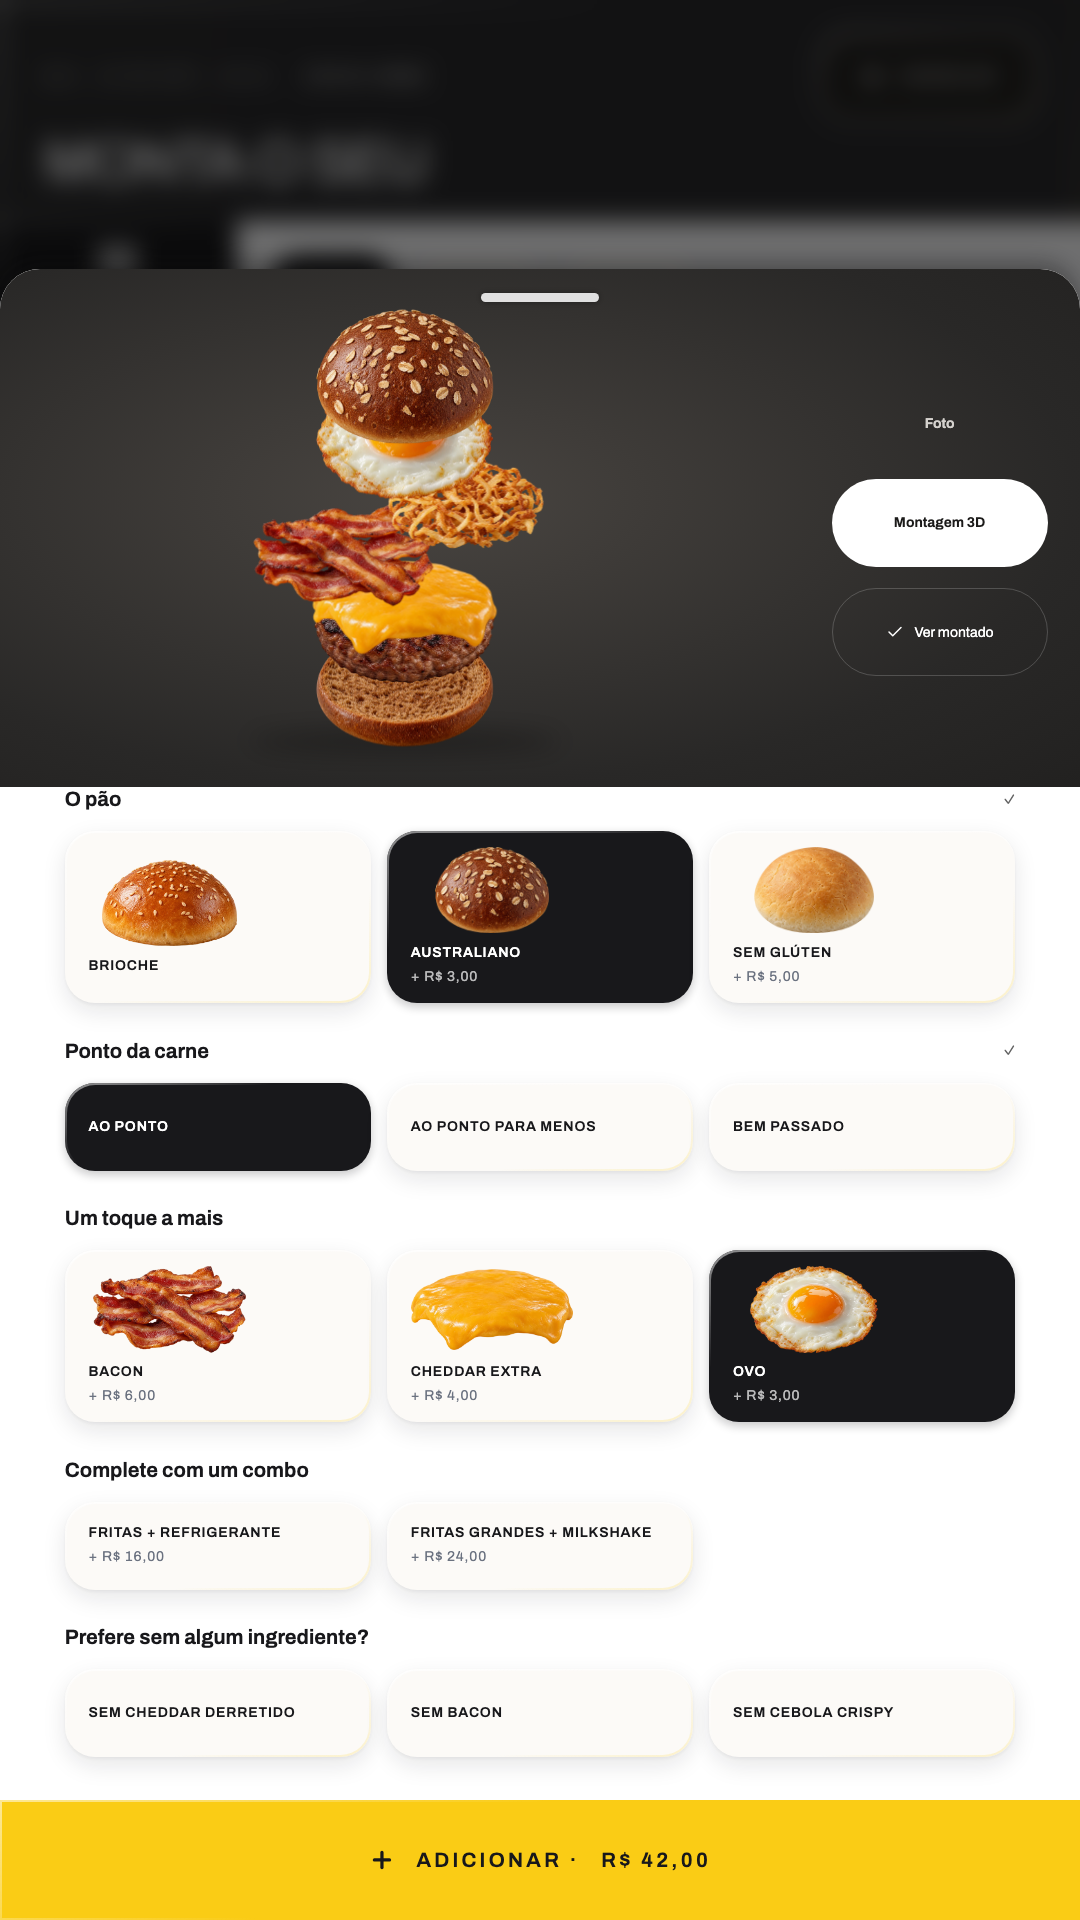
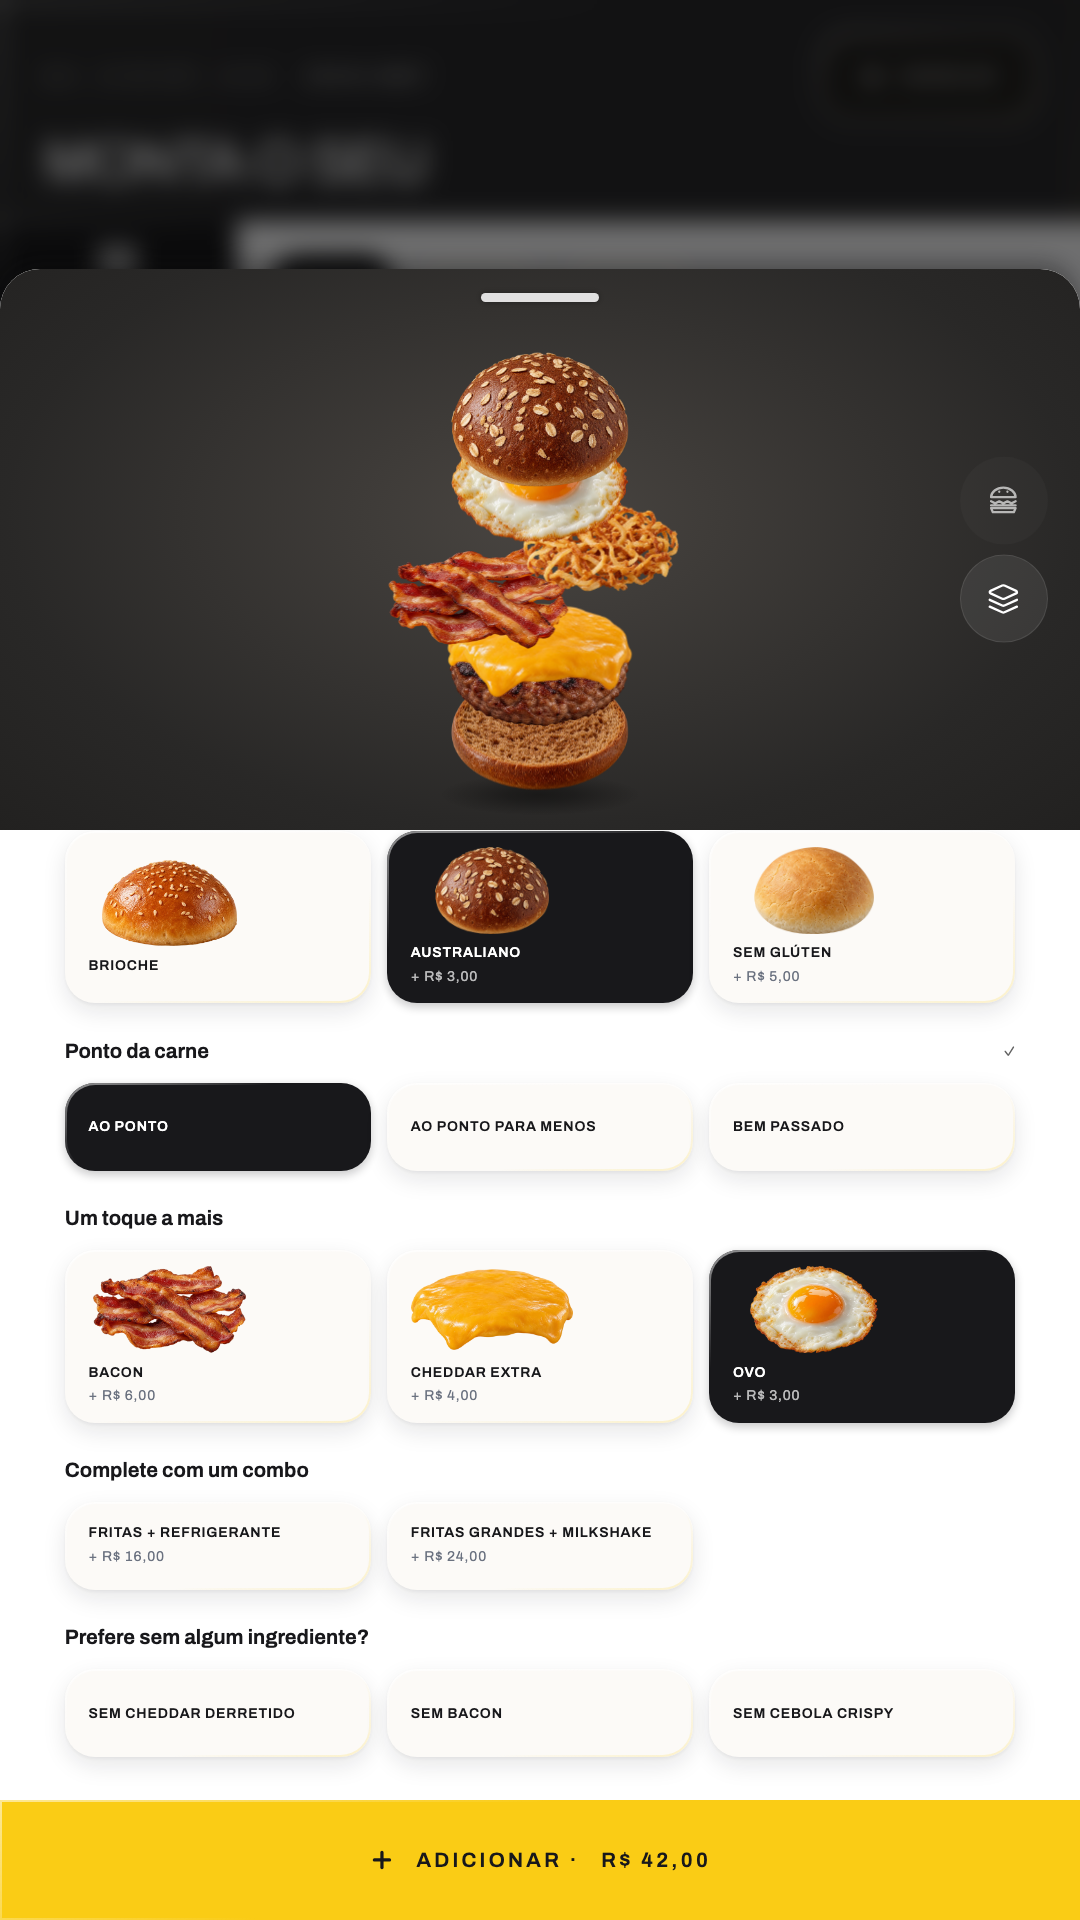
fix(totem): polish burger motion, contact shadows and preview coverage

Changed region(s): [[0.0, 0.1562, 1.0, 0.4375], [0.7639, 0.2188, 0.9778, 0.3438]]

diff --git a/e2e/burger-motion.spec.ts b/e2e/burger-motion.spec.ts
@@ -1,0 +1,72 @@
+import { expect, test, type Page } from '@playwright/test'
+
+async function enter(page: Page) {
+  await page.goto('/?tenant=maxburger')
+  for (const id of ['attract', 'mode-dine-in', 'identify-skip']) await page.getByTestId(id).tap()
+  await expect(page.locator('.burger-photo-stage [data-testid="burger-still"]')).toHaveAttribute('data-ready', 'true')
+}
+
+test('pão e queijo abrem, renovam o tempo e fecham sem mudar o pedido', async ({ page }, info) => {
+  await enter(page)
+  const stage = page.getByTestId('burger-stage'), builder = page.getByTestId('burger-builder')
+  await expect(stage).toHaveAttribute('data-open', 'false')
+  await page.getByTestId('burger-recipe-mb-p-cheddar-bacon').tap()
+  await page.getByTestId('mod-mb-m-australiano').tap()
+  await expect(stage).toHaveAttribute('data-open', 'true')
+  await page.waitForTimeout(1800)
+  await page.getByTestId('mod-mb-m-cheddar').tap()
+  await expect(page.getByTestId('burger-layer-extra-mb-m-cheddar')).toBeVisible()
+  await page.waitForTimeout(1200)
+  await expect(stage).toHaveAttribute('data-open', 'true')
+  const shadow = stage.getByTestId('burger-shadow')
+  await expect(shadow).toBeVisible()
+  await expect(shadow).toHaveCSS('pointer-events', 'none')
+  await page.screenshot({ path: info.outputPath('burger-shadow-open.png') })
+  await expect(stage).toHaveAttribute('data-open', 'false', { timeout: 4000 })
+  await expect(builder).toHaveAttribute('data-view', 'photo')
+  await page.screenshot({ path: info.outputPath('burger-shadow-closed.png') })
+  await page.getByTestId('mod-mb-m-ponto').tap()
+  await expect(builder).toHaveAttribute('data-view', 'photo')
+  await expect(page.getByTestId('sheet-total')).toContainText('43,00')
+  await expect(page.getByTestId('open-cart')).toBeDisabled()
+  // A held gesture must never close beneath the customer's finger.
+  await page.getByTestId('burger-layers-toggle').tap()
+  await page.waitForTimeout(700)
+  const hit = (await page.getByTestId('burger-hit-extra-mb-m-cheddar').boundingBox())!
+  await page.mouse.move(hit.x + hit.width / 2, hit.y + hit.height / 2)
+  await page.mouse.down()
+  await page.waitForTimeout(2900)
+  await expect(stage).toHaveAttribute('data-open', 'true')
+  await page.mouse.up()
+  await expect(stage).toHaveAttribute('data-open', 'false', { timeout: 4000 })
+})
+
+test('adicionar fecha, voa para o carrinho e registra uma única linha', async ({ page }) => {
+  await enter(page)
+  for (const id of ['burger-recipe-mb-p-cheddar-bacon', 'mod-mb-m-australiano', 'mod-mb-m-ponto', 'burger-layers-toggle']) {
+    await page.getByTestId(id).tap()
+  }
+  await page.waitForTimeout(700)
+  await page.getByTestId('add-to-order').tap()
+  const arrival = page.getByTestId('burger-cart-arrival')
+  await expect(arrival).toBeVisible()
+  await expect(arrival).toHaveAttribute('data-closing', 'true')
+  await expect(page.getByTestId('product-sheet')).toHaveCount(0)
+  await expect(arrival).toHaveCount(0, { timeout: 3000 })
+  await page.getByTestId('open-cart').tap()
+  await expect(page.getByTestId('cart-line-mb-p-cheddar-bacon')).toHaveCount(1)
+  await expect(page.getByTestId('cart-total')).toContainText('39,00')
+})
+
+test('movimento reduzido não deixa animação atrasada após a compra', async ({ page }) => {
+  await page.emulateMedia({ reducedMotion: 'reduce' })
+  await enter(page)
+  for (const id of ['burger-recipe-mb-p-cheddar-bacon', 'mod-mb-m-brioche', 'mod-mb-m-ponto', 'add-to-order']) {
+    await page.getByTestId(id).tap()
+  }
+  await expect(page.getByTestId('burger-cart-arrival')).toHaveCount(0)
+  await page.emulateMedia({ reducedMotion: 'no-preference' })
+  await expect(page.getByTestId('burger-cart-arrival')).toHaveCount(0)
+  await page.getByTestId('open-cart').tap()
+  await expect(page.getByTestId('cart-total')).toContainText('36,00')
+})

diff --git a/e2e/burger-fixed-preview.spec.ts b/e2e/burger-fixed-preview.spec.ts
@@ -23,17 +23,19 @@ test('prévia fixa, controles laterais e escolhas roláveis sem sobreposição',
   const bun = (await page.getByTestId('burger-hit-top').boundingBox())!
   const handle = (await page.getByTestId('sheet-handle').boundingBox())!
   expect(bun.y).toBeGreaterThan(handle.y + handle.height)
-  expect(controlBounds.x).toBeGreaterThanOrEqual(stage.x + stage.width - 1)
-  for (const id of ['burger-photo-toggle', 'burger-layers-toggle', 'burger-stack-toggle']) {
+  const scene = (await page.getByTestId('burger-drop-zone').boundingBox())!
+  expect(scene.x + scene.width / 2).toBeCloseTo(before.x + before.width / 2, 0)
+  expect(controlBounds.x).toBeGreaterThan(scene.x + scene.width)
+  await expect(controls.getByRole('button')).toHaveCount(2)
+  expect(await controls.innerText()).toBe('')
+  for (const id of ['burger-photo-toggle', 'burger-layers-toggle']) {
     const box = (await page.getByTestId(id).boundingBox())!
     expect(box.y).toBeGreaterThanOrEqual(stage.y)
     expect(box.y + box.height).toBeLessThanOrEqual(stage.y + stage.height)
     expect(box.height).toBeGreaterThanOrEqual(87)
   }
-  await body.hover()
-  const initialScroll = await body.evaluate((e) => e.scrollTop)
-  await page.mouse.wheel(0, 1100)
-  await expect.poll(() => body.evaluate((e) => e.scrollTop)).toBeGreaterThan(initialScroll + 100)
+  await page.getByTestId('mod-mb-m-ovo').scrollIntoViewIfNeeded()
+  expect(await body.evaluate((e) => e.scrollTop)).toBeGreaterThan(100)
   const after = (await preview.boundingBox())!
   expect(after.y).toBeCloseTo(before.y, 0)
   expect(after.height).toBeCloseTo(before.height, 0)
@@ -49,7 +51,7 @@ test('prévia fixa, controles laterais e escolhas roláveis sem sobreposição',
   expect(await body.evaluate((e) => e.scrollTop)).toBeCloseTo(scroll, 0)
   expect((await preview.boundingBox())!.height).toBeCloseTo(before.height, 0)
   await page.getByTestId('burger-layers-toggle').tap()
-  await page.getByTestId('burger-stack-toggle').tap()
+  await page.getByTestId('burger-photo-toggle').tap()
   await expect(page.getByTestId('burger-stage')).toHaveAttribute('data-open', 'false')
   expect(await body.evaluate((e) => e.scrollTop)).toBeCloseTo(scroll, 0)
 })
@@ -75,12 +77,13 @@ test('trocar pão na cena alcança as opções e o puxador fecha mesmo com a lis
   await expect(page.getByTestId('open-cart')).toBeDisabled()
 })
 
-test('rolagem por toque e modo de alcance mantêm prévia e ação acessíveis', async ({ page }) => {
+test('rolagem nativa por toque mantém prévia e ação acessíveis', async ({ page }) => {
+  // Headless Chromium on macOS loses native scrolling coordinates on entering
+  // OS fullscreen. Keep the emulated panel size; the kiosk fullscreen contract
+  // is exercised separately. No synthetic scrollTop writes in this test.
+  await page.addInitScript(() => { Element.prototype.requestFullscreen = async () => {} })
   await page.emulateMedia({ reducedMotion: 'reduce' })
   await enter(page)
-  await page.keyboard.press('Escape')
-  await page.getByTestId('reach-toggle').tap()
-  await page.getByTestId('product-mb-p-cheddar-bacon').tap()
   const preview = page.getByTestId('burger-preview')
   const body = page.getByTestId('product-sheet').getByTestId('sheet-body')
   const before = (await preview.boundingBox())!
@@ -95,7 +98,7 @@ test('rolagem por toque e modo de alcance mantêm prévia e ação acessíveis',
   await cdp.detach()
   await expect.poll(() => body.evaluate((e) => e.scrollTop)).toBeGreaterThan(100)
   expect((await preview.boundingBox())!.y).toBeCloseTo(before.y, 0)
-  await expect(page.getByTestId('burger-stack-toggle')).toBeVisible()
+  await expect(page.getByTestId('burger-layers-toggle')).toBeVisible()
   await expect(page.getByTestId('add-to-order')).toBeInViewport()
   await expect(page.locator('.burger-ambient')).toHaveCount(0)
 })

diff --git a/test/burger-pilot.test.ts b/test/burger-pilot.test.ts
@@ -1,8 +1,21 @@
 import { expect, test } from 'vitest'
-import { burgerPoses, pilotBurger } from '@/burger/pilot'
+import { burgerPoses, burgerShadowPose, pilotBurger } from '@/burger/pilot'
 
 const dimensions = { 'brioche-top': { width: 1000, height: 630 }, 'brioche-bottom': { width: 1000, height: 620 },
   blend: { width: 1000, height: 670 }, cheddar: { width: 1000, height: 510 }, bacon: { width: 1000, height: 570 }, 'onion-crispy': { width: 1000, height: 480 } }
+
+test('sombra acompanha a base visível e suaviza ao abrir; cena vazia não tem sombra', () => {
+  expect(burgerShadowPose([], [], dimensions, false)).toBeNull()
+  for (const double of [false, true]) for (const open of [false, true]) {
+    const layers = pilotBurger({ double }), poses = burgerPoses(layers, dimensions, open)
+    const shadow = burgerShadowPose(layers, poses, dimensions, open)!
+    const lowerEdge = Math.max(...poses.map((p, i) => p.centerY + p.width * dimensions[layers[i].asset].height / dimensions[layers[i].asset].width / 2))
+    expect(shadow.top + 3).toBeCloseTo(lowerEdge)
+    expect(shadow.left + shadow.width / 2).toBeCloseTo(50)
+    expect(shadow.top + shadow.height).toBeLessThanOrEqual(100)
+    expect(shadow.opacity).toBe(open ? .7 : 1)
+  }
+})
 
 test('cheddar permanece preso à mesma carne nos dois estados', () => {
   for (const double of [false, true]) for (const open of [false, true]) {

diff --git a/src/burger/BurgerStill.tsx b/src/burger/BurgerStill.tsx
@@ -1,6 +1,6 @@
 import { useEffect, useState } from 'react'
 import dimensions from '../../public/demo/maxburger/burger/assets.json'
-import { BURGER_ASSETS, burgerPoses, type BurgerLayer } from './pilot'
+import { BURGER_ASSETS, burgerPoses, burgerShadowPose, type BurgerLayer } from './pilot'
 import './burger.css'
 
 export { dimensions as burgerDimensions }
@@ -32,6 +32,18 @@ function still(layers: BurgerLayer[], key: string) {
     const ctx = canvas.getContext('2d')
     if (!ctx) throw new Error('Canvas unavailable')
     const poses = burgerPoses(layers, dimensions, false)
+    const shadow = burgerShadowPose(layers, poses, dimensions, false)
+    if (shadow) {
+      ctx.save()
+      ctx.translate((shadow.left + shadow.width / 2) * 6.4, (shadow.top + shadow.height / 2) * 6.4)
+      ctx.scale(shadow.width * 3.2, shadow.height * 3.2)
+      const gradient = ctx.createRadialGradient(0, 0, 0, 0, 0, 1)
+      gradient.addColorStop(0, '#0009'); gradient.addColorStop(.24, '#0007')
+      gradient.addColorStop(.5, '#0003'); gradient.addColorStop(.72, '#0000')
+      ctx.fillStyle = gradient
+      ctx.fillRect(-1, -1, 2, 2)
+      ctx.restore()
+    }
     loaded.forEach((img, i) => {
       const pose = poses[i], w = pose.width * 6.4, h = w * img.naturalHeight / img.naturalWidth
       ctx.drawImage(img, pose.centerX * 6.4 - w / 2, pose.centerY * 6.4 - h / 2, w, h)

diff --git a/src/burger/BurgerVisual.tsx b/src/burger/BurgerVisual.tsx
@@ -1,6 +1,7 @@
 import { AnimatePresence, motion, useReducedMotion } from 'motion/react'
 import type { PointerEvent } from 'react'
 import { BURGER_ASSETS, burgerPoses, type BurgerLayer } from './pilot'
+import { BurgerShadow } from './BurgerShadow'
 import './burger.css'
 
 export function BurgerVisual({ layers, dimensions, open = false, ambient = false, selectedId, hiddenId, onSelect, onLayerPointerDown, onImageError }: {
@@ -13,7 +14,7 @@ export function BurgerVisual({ layers, dimensions, open = false, ambient = false
   const poses = burgerPoses(layers, dimensions, open)
   return <div className={`burger-visual ${ambient && !reduced ? 'burger-ambient' : ''}`} role={onSelect && open ? 'group' : 'img'}
     aria-label={`Burger ${open ? 'em camadas' : 'montado'}: ${[...new Set(layers.map((l) => l.label))].join(', ')}`} data-testid="burger-visual">
-    <div className="burger-contact-shadow" aria-hidden="true" />
+    <BurgerShadow layers={layers} poses={poses} dimensions={dimensions} open={open} />
     <AnimatePresence initial={false}>
       {layers.map((layer, index) => {
         const pose = poses[index]

diff --git a/src/burger/pilot.ts b/src/burger/pilot.ts
@@ -13,6 +13,18 @@ export interface BurgerLayer {
 export interface BurgerLayerPose { id: string; width: number; centerX: number; centerY: number; group: number }
 export const BURGER_ASSETS = '/demo/maxburger/burger'
 
+/** Shared contact plane for the live scene and its cached static photograph. */
+export function burgerShadowPose(layers: BurgerLayer[], poses: BurgerLayerPose[], dimensions: Record<string, { width: number; height: number }>, open: boolean) {
+  if (!layers.length) return null
+  const edges = poses.map((pose, i) => {
+    const size = dimensions[layers[i].asset]
+    return pose.centerY + pose.width * (size ? size.height / size.width : .55) / 2
+  })
+  const index = edges.indexOf(Math.max(...edges))
+  const base = poses[index], width = base.width * 1.12
+  return { left: base.centerX - width / 2, top: edges[index] - 3, width, height: open ? 8 : 6, opacity: open ? .7 : 1 }
+}
+
 export function pilotBurger({ bacon = true, onion = true, cheese = true, double = false }: {
   bacon?: boolean; onion?: boolean; cheese?: boolean; double?: boolean
 } = {}): BurgerLayer[] {

diff --git a/e2e/burger-composer.spec.ts b/e2e/burger-composer.spec.ts
@@ -14,7 +14,7 @@ async function ready(page: Page) {
   await expect(page.getByTestId('sheet-total')).toHaveText(/39,00/)
 }
 async function drag(page: Page, id: string, restore = false) {
-  await page.getByTestId('burger-layers-toggle').scrollIntoViewIfNeeded()
+  await page.getByTestId('burger-layers-toggle').tap()
   await page.waitForTimeout(750)
   const element = page.getByTestId(`${restore ? 'burger-restore' : 'burger-hit'}-${id}`)
   const box = (await element.boundingBox())!, scene = (await page.getByTestId('burger-drop-zone').boundingBox())!
@@ -85,7 +85,7 @@ test('Foto e Montagem preservam pão, ponto e preço; os dois lados do pão muda
   await page.getByTestId('burger-layers-toggle').scrollIntoViewIfNeeded()
   await page.waitForTimeout(800)
   await page.screenshot({ path: info.outputPath('australian-open.png') })
-  await page.getByTestId('burger-stack-toggle').tap()
+  await page.getByTestId('burger-photo-toggle').tap()
   await page.waitForTimeout(800)
   await page.screenshot({ path: info.outputPath('australian-closed.png') })
   expect(errors).toEqual([])

diff --git a/src/burger/BurgerShadow.tsx b/src/burger/BurgerShadow.tsx
@@ -1,0 +1,17 @@
+import { motion, useReducedMotion } from 'motion/react'
+import { burgerShadowPose, type BurgerLayer, type BurgerLayerPose } from './pilot'
+
+/** The contact plane follows the lowest visible layer, including bread swaps.
+ * Percentage geometry keeps the photo, live preview and thumbnails identical. */
+export function BurgerShadow({ layers, poses, dimensions, open = false }: {
+  layers: BurgerLayer[]; poses: BurgerLayerPose[]
+  dimensions: Record<string, { width: number; height: number }>; open?: boolean
+}) {
+  const reduced = useReducedMotion()
+  const pose = burgerShadowPose(layers, poses, dimensions, open)
+  if (!pose) return null
+  return <motion.span className="burger-contact-shadow" aria-hidden="true" data-testid="burger-shadow"
+    initial={false} animate={{ left: `${pose.left}%`, top: `${pose.top}%`,
+      width: `${pose.width}%`, height: `${pose.height}%`, opacity: pose.opacity }}
+    transition={{ duration: reduced ? 0 : .65, ease: [.22, 1, .36, 1] }} />
+}

diff --git a/src/burger/burger.css b/src/burger/burger.css
@@ -20,7 +20,7 @@
 .burger-drag-ghost { position: fixed; top: 0; left: 0; z-index: 9999; pointer-events: none; filter: drop-shadow(0 12px 18px #0008); }
 .burger-drag-ghost.is-ready { filter: drop-shadow(0 0 12px #ffcc6380); }
 .burger-drag-ghost img { display: block; width: 100%; height: auto; }
-.burger-contact-shadow { position: absolute; width: 62%; height: 4%; left: 19%; top: 90%; border-radius: 50%; background: #0005; filter: blur(1.2cqw); }
+.burger-contact-shadow { position: absolute; pointer-events: none; border-radius: 50%; background: radial-gradient(ellipse, #0009 0%, #0007 24%, #0003 50%, #0000 72%); }
 .burger-ambient .burger-layer-float { animation: burger-breathe 5s ease-in-out infinite; }
 @keyframes burger-breathe { 0%, 100% { transform: translateY(-.25%); } 50% { transform: translateY(.25%); } }
 @media (prefers-reduced-motion: reduce) { .burger-layer-float { animation: none !important; } }

diff --git a/src/burger/BurgerProductSheet.tsx b/src/burger/BurgerProductSheet.tsx
@@ -86,7 +86,7 @@ export function BurgerProductSheet({ product, onClose }: { product: TotemProduct
     header={<div className="burger-preview" data-testid="burger-preview" ref={preview}
       onPointerDownCapture={pause} onPointerUpCapture={resume} onPointerCancelCapture={resume}>
       <div className="burger-preview-content">
-        <div className="burger-live-stage" data-hidden={view === 'photo' || failed} aria-hidden={view === 'photo' || failed}>
+        <div className="burger-live-stage" data-hidden={view === 'photo' || failed}>
           <BurgerInteractiveStage layers={layers} dimensions={burgerDimensions} open={open} removed={NONE}
             restorableLayers={restorable} onRemove={remove} onRestore={restore}
             canRemove={(id) => Boolean(findRemoval(id) || findExtra(id))}

diff --git a/src/burger/BurgerCartArrival.tsx b/src/burger/BurgerCartArrival.tsx
@@ -19,10 +19,11 @@ export function BurgerCartArrival() {
   const [arrival, setArrival] = useState<Arrival | null>(null)
   const reduced = useReducedMotion()
   useEffect(() => {
-    const receive = (event: Event) => setArrival((event as CustomEvent<Arrival>).detail)
+    if (reduced) setArrival(null)
+    const receive = (event: Event) => { if (!reduced) setArrival((event as CustomEvent<Arrival>).detail) }
     window.addEventListener(EVENT, receive)
     return () => window.removeEventListener(EVENT, receive)
-  }, [])
+  }, [reduced])
   return arrival && !reduced ? createPortal(<ArrivalVisual key={arrival.seq} arrival={arrival}
     onComplete={() => setArrival((current) => current?.seq === arrival.seq ? null : current)} />, document.body) : null
 }

diff --git a/src/screens/AttractScreen.tsx b/src/screens/AttractScreen.tsx
@@ -54,12 +54,12 @@ export function AttractScreen() {
       <MediaBackdrop videoSrc={media.videoUrl} posterSrc={media.posterUrl} scrim={55} />
 
       {/* A marca aparece UMA vez.
- 
+
           Com a logo no ar, o nome tipografado sai — não fica ao lado dela. Os
           dois juntos são a mesma marca dita duas vezes, e a segunda vez sempre
           contradiz a primeira: a logo já decidiu peso, caixa e espacejamento, e
           o `type-display` decide tudo isso de novo com outros valores.
- 
+
           O `alt` é o nome da casa de propósito: uma logo que não carrega tem de
           continuar dizendo onde a pessoa está, e um leitor de tela nunca soube
           ler um desenho. */}
